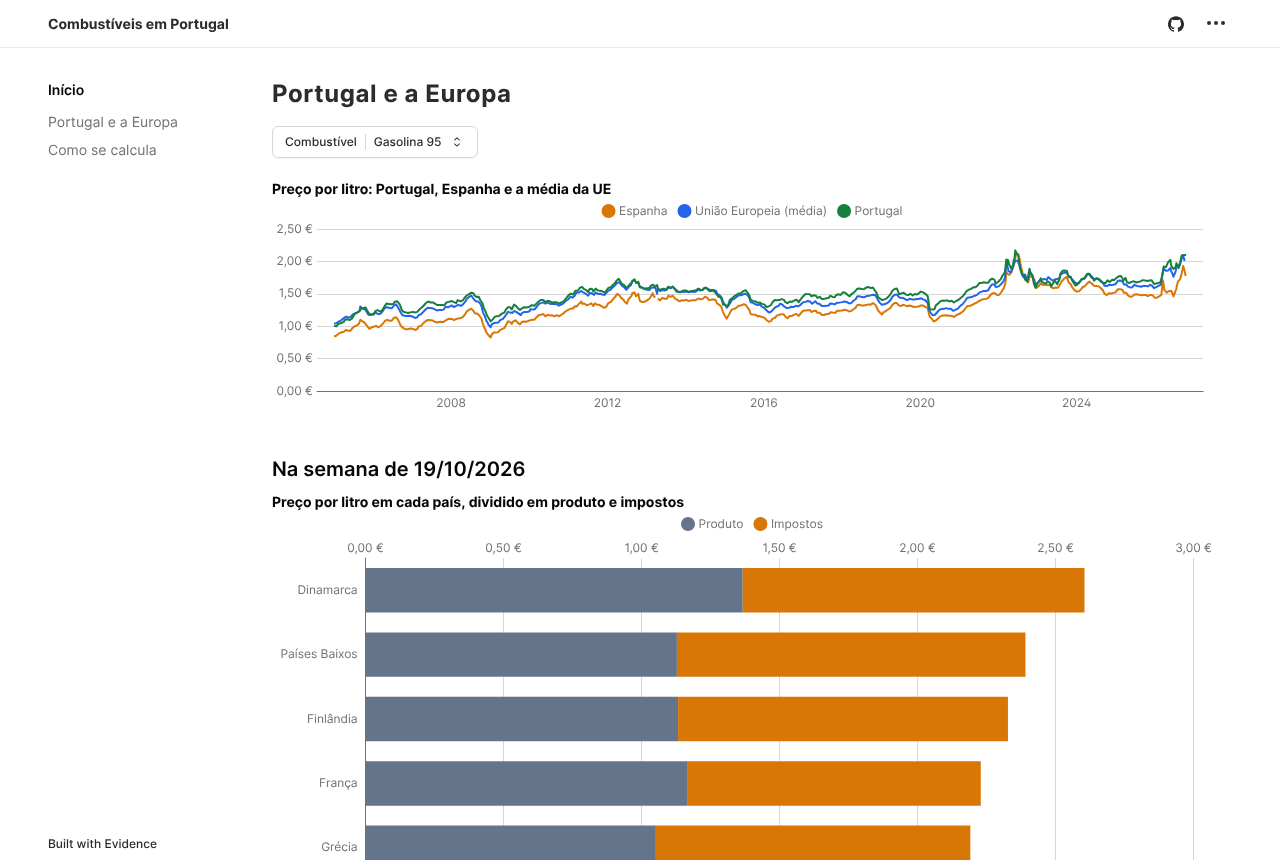
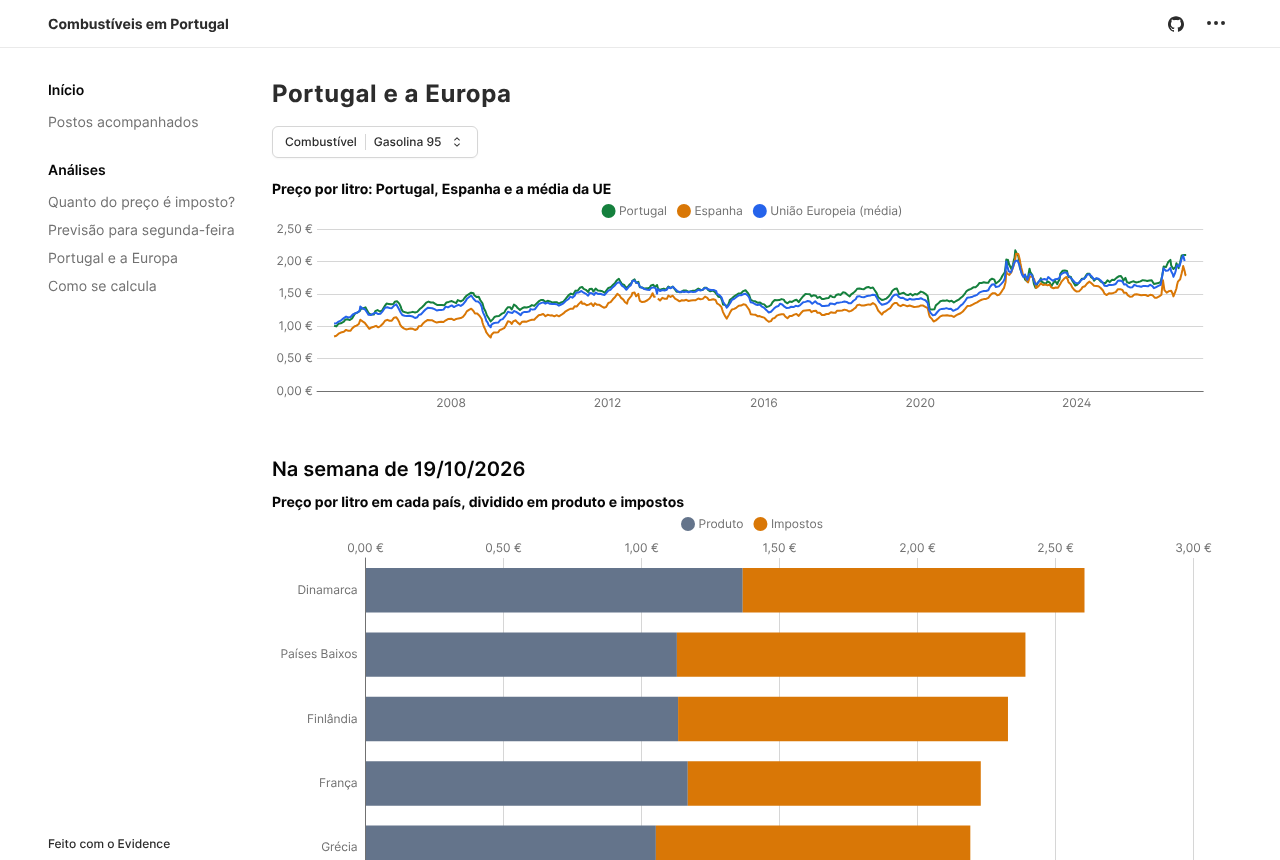
Rewrite the README for the portfolio: features, technical highlights and new screenshots (#25)
Claude-Session: https://claude.ai/code/session_01AWiNXJotBmLdgxgatSz48F

diff --git a/README.md b/README.md
@@ -3,9 +3,22 @@
 [![CI](https://github.com/JoseFerrao20/combustiveis-pt/actions/workflows/ci.yml/badge.svg)](https://github.com/JoseFerrao20/combustiveis-pt/actions/workflows/ci.yml)
 [![Licença: MIT](https://img.shields.io/badge/licen%C3%A7a-MIT-blue)](LICENSE)
 
-**Quanto do que pagas por um litro de gasolina é imposto?** Um pipeline de dados com os preços semanais dos combustíveis em Portugal e nos outros países da UE desde 2005, a partir do [Weekly Oil Bulletin](https://energy.ec.europa.eu/data-and-analysis/weekly-oil-bulletin_en) da Comissão Europeia.
+**Onde abastecer mais barato, e quanto do preço é imposto.** Um pipeline de dados que junta, todos os dias, o preço de cada posto de combustível em Portugal (DGEG), os preços semanais de toda a UE desde 2005 (Weekly Oil Bulletin da Comissão Europeia) e as cotações dos mercados internacionais (FRED), e um site estático feito para se usar no telemóvel.
 
-Na semana de 19/10/2026, um litro de gasolina 95 custava 2,099 € em Portugal:
+**Site:** [joseferrao20.github.io/combustiveis-pt](https://joseferrao20.github.io/combustiveis-pt/), atualizado todos os dias.
+
+![No telemóvel: a página inicial com a previsão para segunda-feira e o botão "Perto de mim", e a tabela dos postos à volta, do mais barato para o mais caro, com a poupança num depósito e o botão "Ir"](docs/images/painel-telemovel.png)
+
+**Para quem abastece:**
+
+- **Mapa e tabela de todos os postos** (mais de 3000), do mais barato para o mais caro. A tabela segue o mapa: ao aproximar, ou ao escolher o distrito e o concelho, fica só com os postos que se veem.
+- **"Perto de mim":** centra o mapa onde a pessoa está. Para cada posto, mostra a distância e quanto se poupa num depósito face ao posto mais perto, já descontando a ida e volta. O botão "Ir" abre o caminho no Google Maps. A localização não sai do telemóvel.
+- **"Desde ontem":** quanto cada posto subiu ou desceu, e os preços dos últimos dias.
+- **Previsão para segunda-feira:** quanto deve mudar o preço, a partir dos mercados da semana anterior, com o erro de todas as semanas desde 2024 à vista. Na segunda de manhã, compara-se com a mudança real nos postos.
+
+![A página inicial no computador: o mapa de Lisboa com os postos coloridos do mais barato ao mais caro, a posição da pessoa a azul e, por baixo, a tabela com o preço, a mudança desde ontem, a distância e a poupança num depósito](docs/images/painel-mapa-tabela.png)
+
+**Para quem quer perceber os preços:** na semana de 19/10/2026, um litro de gasolina 95 custava 2,099 € em Portugal.
 
 | | € por litro |
 |---|---|
@@ -15,51 +28,65 @@ Na semana de 19/10/2026, um litro de gasolina 95 custava 2,099 € em Portugal:
 | IVA (23 %) | 0,392 |
 | **Preço** | **2,099** |
 
-Quase **47 %** do preço são impostos. A decomposição bate certo com o preço publicado ao cêntimo, e essa verificação faz parte dos testes.
+Quase **47 %** do preço são impostos. A decomposição bate certo com o preço publicado ao cêntimo, e essa verificação faz parte dos testes. O menu "Análises" do site tem a evolução desde 2005, a comparação com a Europa e a previsão.
 
-**Painel:** [joseferrao20.github.io/combustiveis-pt](https://joseferrao20.github.io/combustiveis-pt/), atualizado todos os dias.
+![Análises, "Previsão para segunda-feira": a mudança prevista para a gasolina e o gasóleo, o erro médio nas 147 semanas de teste e os gráficos do previsto contra o real](docs/images/painel-previsao.png)
 
-A página inicial é para quem só quer saber onde abastecer: o mapa com todos os postos, a tabela do mais barato para o mais caro e o botão "Perto de mim". As análises (impostos, Europa e método) estão num menu à parte.
-
-![Página inicial: o mapa com os mais de 3000 postos, coloridos do mais barato (verde) ao mais caro (vermelho), e por baixo a tabela dos postos que se veem no mapa, do mais barato para o mais caro](docs/images/painel-postos.png)
-
-![Análises, "Quanto do preço é imposto?": preço da gasolina 95 em Portugal, dividido em produto, ISP e outros impostos e IVA, e a evolução desde 2005](docs/images/painel-inicio.png)
+![Análises, "Quanto do preço é imposto?": preço da gasolina 95 em Portugal, dividido em produto, ISP e outros impostos e IVA, e a evolução desde 2005](docs/images/painel-impostos.png)
 
 ![Análises, "Portugal e a Europa": Portugal comparado com Espanha e com a média da UE, e o preço em cada país dividido em produto e impostos](docs/images/painel-comparacao.png)
 
-![Página inicial, mais abaixo: os postos mais caros do continente e a diferença de preço para a média do concelho pelo número de concorrentes a 5 km](docs/images/painel-concorrencia.png)
+## Destaques técnicos
 
-## Perguntas
+- **Fontes sem contrato, lidas com desconfiança.** O ficheiro do boletim não tem formato documentado, e a API da DGEG é a da página de pesquisa, sem documentação. Cada leitura valida o que recebe (colunas, códigos, totais anunciados) e falha com um erro claro em vez de devolver dados errados (`FormatError`, `DgegFormatError`, `MarketFormatError`).
+- **Histórico que a fonte não guarda.** A DGEG só mostra o preço em vigor. Uma fotografia por dia vai para o ramo `dados` do próprio repositório (o padrão "git scraping"), sem serviços nem custos. Uma vigilância avisa por email se a recolha parar ou vier incompleta.
+- **SQL a fazer o trabalho pesado** (dbt com DuckDB): o imposto em vigor em cada semana com `ASOF JOIN`; os concorrentes a 2 e 5 km de cada posto com a fórmula de haversine, sem extensões; as mudanças diárias de cada posto com funções de janela.
+- **Erros da fonte investigados, não escondidos.** Quando as tabelas de impostos do boletim não explicam o preço, a diferença fica numa coluna. Os períodos já explicados ficam num seed, com a razão, e a análise está em [`docs/analises/`](docs/analises/) (Portugal, Lituânia, Países Baixos, Eslováquia e Espanha). Um aviso do dbt apanha qualquer caso novo.
+- **Uma previsão testada a sério.** Os coeficientes foram ajustados com 2012–2023, e o site mostra o erro em todas as semanas desde 2024, que o ajuste não viu: 1,1 a 1,3 cêntimos, contra 1,7 a 2,7 a dizer "fica igual".
+- **Um site sem servidor:** Evidence com DuckDB-WASM no browser, publicado no GitHub Pages. O mapa é um componente próprio com o Leaflet, porque o do Evidence não diz à página que zona está à vista. A interface foi traduzida com patches ao Evidence. As fontes e as consultas foram cortadas ao que as páginas usam.
+- **Testes em todas as camadas**, todos no CI:
+  - 57 testes em Python (98 % de cobertura);
+  - 83 testes de dados e testes unitários no dbt;
+  - 19 testes do site com o Playwright: as páginas, os filtros, o "Perto de mim" com a localização simulada e a poupança.
 
-- Quanto do preço é imposto, e como mudou desde 2005?
-- Portugal comparado com Espanha e com a média da UE e da zona euro.
-- O efeito das mudanças do ISP (por exemplo, as descidas de 2022).
-- Em Portugal, posto a posto: quanto mais caras são as petrolíferas do que os hiper e supermercados, e que distritos pagam mais (dados da DGEG, uma fotografia por dia).
+  O CI corre tudo com amostras reais das três fontes, e o site publica-se sozinho todas as manhãs.
 
 ## Arquitetura
 
 ```mermaid
 flowchart LR
-  WOB["Weekly Oil Bulletin<br/>(Comissão Europeia, .xlsx)"] --> I["ingest<br/>Python"]
-  DGEG["Portal da DGEG<br/>(preço de cada posto)"] --> S["dgeg<br/>Python, todos os dias"]
+  WOB["Weekly Oil Bulletin<br/>(Comissão Europeia, .xlsx)"] --> I["combustiveis ingest"]
+  DGEG["Portal da DGEG<br/>(preço de cada posto)"] --> S["combustiveis dgeg<br/>todos os dias (dgeg.yml)"]
+  FRED["FRED<br/>(cotações e câmbio)"] --> M["combustiveis mercados"]
   S --> H[("ramo dados<br/>um Parquet por dia")]
+  H --> V["verificar-dgeg<br/>(vigilância)"]
   H --> L
   I --> L[("landing<br/>Parquet + manifesto")]
+  M --> L
   L --> D["dbt + DuckDB<br/>staging · marts · testes"]
-  D --> E["Evidence<br/>site estático"]
+  D --> R[("Parquet para o painel")]
+  R --> E["Evidence + DuckDB-WASM<br/>site estático"]
+  E --> P["GitHub Pages<br/>(pages.yml, todos os dias)"]
 ```
 
 | Fase | Estado |
 |---|---|
 | **Ingestão**: descarrega o histórico, passa as folhas "largas" (uma coluna por país) a tabelas "longas" e escreve Parquet, com um manifesto (origem, data, SHA-256) | ✅ |
 | **Transformação**: modelos dbt em DuckDB (staging, imposto em vigor em cada semana com `ASOF JOIN`, decomposição do preço), testes de dados e testes unitários do dbt | ✅ |
-| **Painel**: site estático com o Evidence no GitHub Pages ([joseferrao20.github.io/combustiveis-pt](https://joseferrao20.github.io/combustiveis-pt/)): a divisão do preço, a evolução desde 2005 e a comparação com a Europa | ✅ |
-| **Agendamento**: o GitHub Actions corre tudo todos os dias, e falha (com email) se o boletim deixar de ser atualizado | ✅ |
-| **Postos em Portugal**: fotografia diária dos preços de cada posto (portal da DGEG), guardada no ramo `dados`; no painel, um mapa com a tabela dos postos que se veem, do mais barato para o mais caro (segue o zoom e os filtros de distrito e concelho), um botão "Perto de mim", o caminho até cada posto no Google Maps, quanto se poupa num depósito em cada posto face ao mais perto (já com a ida e volta), quanto cada posto subiu ou desceu desde ontem e os preços dos últimos dias, e as médias por grupo de marcas, marca e distrito ([ADR 0003](docs/adr/0003-precos-dos-postos-dgeg.md)) | ✅ |
-| **Previsão de segunda-feira**: quanto deve mudar o preço na próxima segunda, a partir das cotações da gasolina e do gasóleo em Nova Iorque (FRED), com o erro de todas as semanas desde 2024 à vista ([análise](docs/analises/previsao-segunda-feira.md), [ADR 0004](docs/adr/0004-previsao-com-cotacoes-do-fred.md)) | ✅ |
+| **Painel**: site estático com o Evidence no GitHub Pages: os postos, a divisão do preço, a evolução desde 2005 e a comparação com a Europa | ✅ |
+| **Agendamento**: o GitHub Actions corre tudo todos os dias, e falha (com email) se o boletim deixar de ser atualizado ou se as fotografias da DGEG pararem | ✅ |
+| **Postos em Portugal**: fotografia diária dos preços de cada posto (portal da DGEG), guardada no ramo `dados`; no painel, o mapa com a tabela, "Perto de mim", a poupança, o caminho no Google Maps, "Desde ontem" e as médias por grupo de marcas, marca e distrito ([ADR 0003](docs/adr/0003-precos-dos-postos-dgeg.md)) | ✅ |
+| **Previsão de segunda-feira**: a partir das cotações da gasolina e do gasóleo em Nova Iorque (FRED), comparada com o boletim e com os postos na própria segunda ([análise](docs/analises/previsao-segunda-feira.md), [ADR 0004](docs/adr/0004-previsao-com-cotacoes-do-fred.md)) | ✅ |
 | **Postos acompanhados**: alguns postos seguidos dia a dia (seed `tracked_stations`: o Auchan da Circunvalação, no Porto, e o de Viseu), com a posição entre os concorrentes a 5 km e a média do concelho | ✅ |
 
-Decisões: a fonte em [`docs/adr/0001-fonte-weekly-oil-bulletin.md`](docs/adr/0001-fonte-weekly-oil-bulletin.md) e o painel em [`docs/adr/0002-painel-evidence.md`](docs/adr/0002-painel-evidence.md).
+**Decisões** (uma por ficheiro, em [`docs/adr/`](docs/adr/)):
+
+- [0001](docs/adr/0001-fonte-weekly-oil-bulletin.md): o Weekly Oil Bulletin como fonte principal;
+- [0002](docs/adr/0002-painel-evidence.md): o painel com o Evidence;
+- [0003](docs/adr/0003-precos-dos-postos-dgeg.md): os preços de cada posto, em fotografias diárias da DGEG;
+- [0004](docs/adr/0004-previsao-com-cotacoes-do-fred.md): a previsão de segunda-feira com as cotações do FRED.
+
+O histórico de cada sessão de trabalho, com as decisões e as lições, está no [`DEVLOG.md`](DEVLOG.md).
 
 ## Correr
 
@@ -71,6 +98,8 @@ uv run combustiveis ingest                         # descarrega e escreve data/l
 uv run combustiveis ingest --ficheiro historico.xlsx   # a partir de um ficheiro já descarregado
 uv run combustiveis ingest --idade-maxima 15          # falha se a última semana tiver mais de 15 dias
 uv run combustiveis dgeg                           # fotografia de hoje dos postos (data/landing/dgeg/)
+uv run combustiveis verificar-dgeg                 # o histórico da DGEG está em dia?
+uv run combustiveis mercados                       # cotações e câmbio do FRED, para a previsão
 ```
 
 A camada landing fica em `data/landing/`: `prices.parquet` (semana, país, produto, com ou sem impostos, valor por 1000 L), `taxes.parquet` (IVA, ISP e outros impostos, com a data de entrada em vigor) e `manifest.json`.
@@ -125,6 +154,8 @@ No dbt (`transform/`):
 ## Fonte e licença
 
 Dados: © União Europeia, [Weekly Oil Bulletin](https://energy.ec.europa.eu/data-and-analysis/weekly-oil-bulletin_en), reprodução autorizada com indicação da fonte. Os preços são médias nacionais ponderadas, não os de um posto.
+
+Cotações e câmbio: [FRED](https://fred.stlouisfed.org/), Federal Reserve Bank of St. Louis (U.S. Energy Information Administration e Federal Reserve).
 
 Preços de cada posto: Direção-Geral de Energia e Geologia, [Preços dos Combustíveis Online](https://precoscombustiveis.dgeg.gov.pt), de reutilização livre com indicação da fonte e da data e hora de atualização de cada preço (que o painel mostra). Os preços são os que os postos comunicam.
 

diff --git a/DEVLOG.md b/DEVLOG.md
@@ -192,6 +192,15 @@
   - **Resultado:** os dados da página inicial passaram de cerca de 4,9 MB para 1,5 MB. O resto (uns 8 MB, comprimidos na transferência) é o código do Evidence e do DuckDB-WASM, que é igual em todas as páginas e fica em cache.
   - **Lição:** no Evidence, o tamanho de uma página depende de todas as fontes do projeto e de todas as consultas da página, mesmo das que só servem de passo intermédio.
 
+- **2026-10-30 (sessão cloud do Claude Code):** README de portfólio.
+  - **Feito:** o README abre com o que o site faz para quem abastece (mapa e tabela, "Perto de mim", poupança, "Desde ontem", previsão), com capturas novas:
+    - duas vistas no telemóvel, lado a lado;
+    - o mapa com a tabela no computador;
+    - a previsão;
+    - os impostos e a comparação com a Europa, já com o menu "Análises".
+
+    Tem também uma secção de destaques técnicos, a arquitetura com as três fontes e a vigilância, e a lista das quatro decisões (ADR). As capturas antigas que já não se usam saíram, e a dos impostos passou a `painel-impostos.png`.
+
 ## Plano
 
 1. **Com 4 a 6 semanas de fotografias:** quanto tempo as marcas demoram a passar as subidas e descidas do boletim (e se sobem mais depressa do que descem), e se os postos isolados demoram mais a baixar. Nos postos acompanhados, se mudam o preço antes ou depois dos concorrentes.
